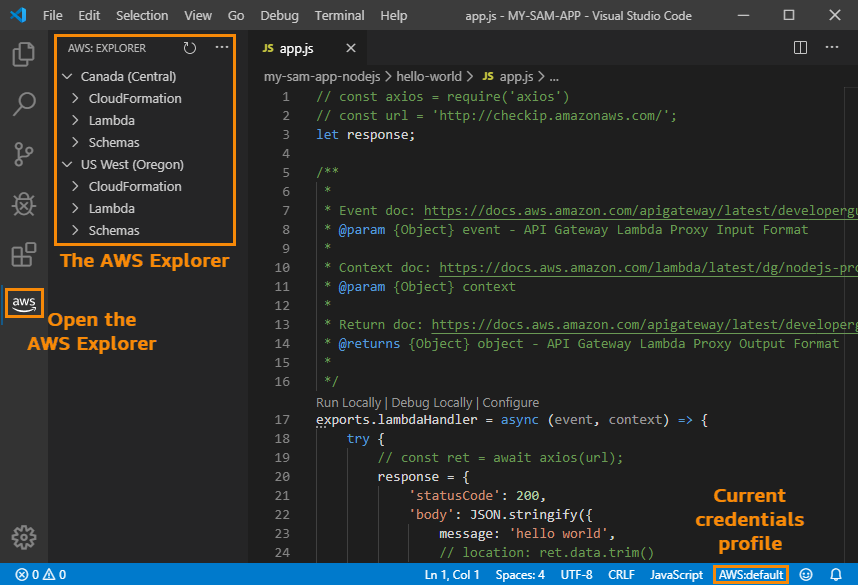
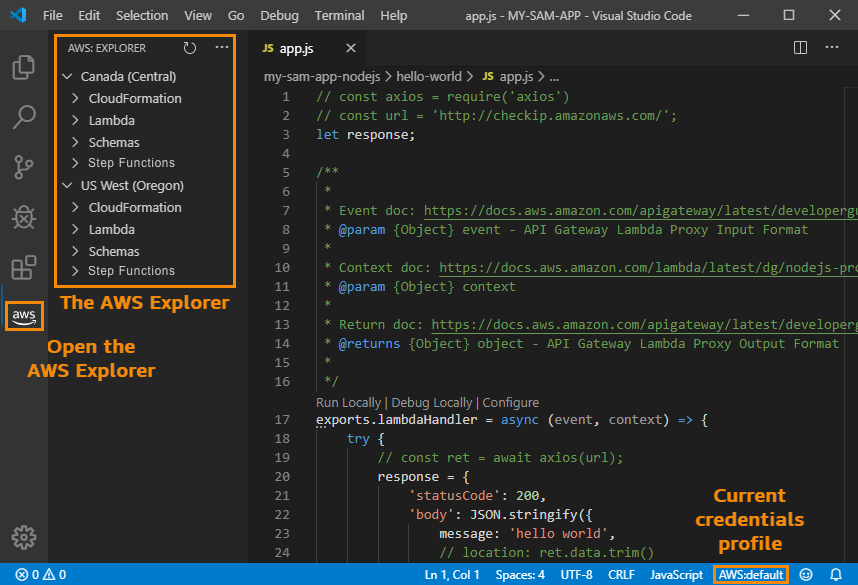
Update to extension readme

Changed region(s): [[0.0, 0.2462, 0.2727, 0.6462], [0.0, 0.0615, 0.0606, 0.2154], [0.0, 0.2462, 0.0606, 0.3077]]

diff --git a/extension-readme.md b/extension-readme.md
@@ -50,7 +50,7 @@ These include the following:
 
 -   Amazon Elastic Container Service (Amazon ECS) task definition files
 
--   Amazon Step Functions state machines
+-   AWS Step Functions state machines
 
 See [Features](#features) below for high-level details, or jump right into the [_AWS Toolkit for Visual Studio Code User Guide_](https://docs.aws.amazon.com/console/toolkit-for-vscode/welcome).
 
@@ -86,7 +86,7 @@ For complete setup instructions for these three components, see [Installing the 
 -   [AWS CDK Applications](#cdk-apps)
 -   [Amazon EventBridge Schemas](#eventbridge)
 -   [Amazon ECS Task Definition Files](#ecs-files)
--   [Amazon Step Functions](#sfn-files)
+-   [AWS Step Functions](#sfn-files)
 
 { [Return to Contents](#contents) } or { [Return to Top](#top) }
 
@@ -174,9 +174,9 @@ For full details, see [Working with Amazon Elastic Container Service](https://do
 
 ---
 
-## <a id="sfn-files"></a>Amazon Step Functions
+## <a id="sfn-files"></a>AWS Step Functions
 
-The AWS Toolkit provides support for [Amazon Step Functions](https://docs.aws.amazon.com/step-functions). With the Toolkit installed in VS Code, working with state machines is a more streamlined process.
+The AWS Toolkit provides support for [AWS Step Functions](https://docs.aws.amazon.com/step-functions). With the Toolkit installed in VS Code, working with state machines is a more streamlined process.
 
 -   Create, update, execute, and download state machines.
 -   See live graph visualizations of your state machine.
@@ -184,7 +184,7 @@ The AWS Toolkit provides support for [Amazon Step Functions](https://docs.aws.am
 
 Example:
 
-![Amazon Step Functions](./resources/marketplace/sfn-state-machine.png)
+![AWS Step Functions](./resources/marketplace/sfn-state-machine.png)
 
 For full details, see [Working with AWS Step Functions](https://docs.aws.amazon.com/toolkit-for-vscode/latest/userguide/stepfunctions.html) in the Toolkit's user guide.
 
@@ -196,22 +196,25 @@ For full details, see [Working with AWS Step Functions](https://docs.aws.amazon.
 
 The AWS Toolkit has several features that you can access through the [Command Palette](#open-command-palette) (select **View**, then **Command Palette**):
 
-| AWS Command                            | Description                                                                                                                                                                                                               |
-| :------------------------------------- | :------------------------------------------------------------------------------------------------------------------------------------------------------------------------------------------------------------------------ |
-| **AWS: Create Credentials Profile**    | Creates an AWS credentials profile. For more information, see [Setting Up Your AWS Credentials](https://docs.aws.amazon.com/console/toolkit-for-vscode/setup-credentials) in the user guide.                              |
-| **AWS: Connect to AWS**                | Connects the Toolkit to an AWS account. For more information, see [Connecting to AWS](https://docs.aws.amazon.com/console/toolkit-for-vscode/connect) in the user guide.                                                  |
-| **AWS: Create New SAM Application**    | Generates a set of code files for a new AWS serverless application. For more information, see [Creating a Serverless Application](https://docs.aws.amazon.com/console/toolkit-for-vscode/create-sam) in the user guide.   |
-| **AWS: Deploy SAM Application**        | Deploys a local serverless application to an AWS account. For more information, see [Deploying a Serverless Application](https://docs.aws.amazon.com/console/toolkit-for-vscode/deploy-serverless-app) in the user guide. |
-| **AWS: Detect SAM CLI**                | Checks whether the Toolkit can communicate correctly with the AWS SAM CLI that is installed.                                                                                                                              |
-| **AWS: Focus on Explorer View**        | Opens the **AWS: Explorer** Side Bar, which we will simply call [_the **AWS Explorer**_](#ui-components-aws-expl), and then moves the focus there.                                                                        |
-| **AWS: Hide region from the Explorer** | Hides an AWS Region from the **AWS Explorer**.                                                                                                                                                                            |
-| **AWS: Report an Issue**               | In the [GitHub repository](https://github.com/aws/aws-toolkit-vscode) for the Toolkit, opens the page to [create a new issue](https://github.com/aws/aws-toolkit-vscode/issues/new/choose).                               |
-| **AWS: Show region in the Explorer**   | Displays an AWS Region in the **AWS Explorer**.                                                                                                                                                                           |
-| **AWS: Sign out**                      | Disconnects the Toolkit from the currently-connected AWS account.                                                                                                                                                         |
-| **AWS: View AWS Toolkit Logs**         | Displays log files that contain general Toolkit diagnostic information.                                                                                                                                                   |
-| **AWS: View Quick Start**              | Open this quick-start guide.                                                                                                                                                                                              |
-| **AWS: View Documentation**            | Opens the [user guide](https://docs.aws.amazon.com/console/toolkit-for-vscode/welcome) for the Toolkit.                                                                                                                   |
-| **AWS: View Source on GitHub**         | Opens the [GitHub repository](https://github.com/aws/aws-toolkit-vscode) for the Toolkit.                                                                                                                                 |
+| AWS Command                                        | Description                                                                                                                                                                                                                                                                                                    |
+| :------------------------------------------------- | :------------------------------------------------------------------------------------------------------------------------------------------------------------------------------------------------------------------------------------------------------------------------------------------------------------- |
+| **AWS: Create Credentials Profile**                | Creates an AWS credentials profile. For more information, see [Setting Up Your AWS Credentials](https://docs.aws.amazon.com/console/toolkit-for-vscode/setup-credentials) in the user guide.                                                                                                                   |
+| **AWS: Connect to AWS**                            | Connects the Toolkit to an AWS account. For more information, see [Connecting to AWS](https://docs.aws.amazon.com/console/toolkit-for-vscode/connect) in the user guide.                                                                                                                                       |
+| **AWS: Create a new Step Functions state machine** | Generates a new Amazon States Language definition to use as the definition for a new Step Functions state machine. For more information, see [State Machine Templates](https://docs.aws.amazon.com//toolkit-for-vscode/latest/userguide/bulding-stepfunctions.html#templates-stepfunctions) in the user guide. |
+| **AWS: Create New SAM Application**                | Generates a set of code files for a new AWS serverless application. For more information, see [Creating a Serverless Application](https://docs.aws.amazon.com/console/toolkit-for-vscode/create-sam) in the user guide.                                                                                        |
+| **AWS: Deploy SAM Application**                    | Deploys a local serverless application to an AWS account. For more information, see [Deploying a Serverless Application](https://docs.aws.amazon.com/console/toolkit-for-vscode/deploy-serverless-app) in the user guide.                                                                                      |
+| **AWS: Detect SAM CLI**                            | Checks whether the Toolkit can communicate correctly with the AWS SAM CLI that is installed.                                                                                                                                                                                                                   |
+| **AWS: Focus on Explorer View**                    | Opens the **AWS: Explorer** Side Bar, which we will simply call [_the **AWS Explorer**_](#ui-components-aws-expl), and then moves the focus there.                                                                                                                                                             |
+| **AWS: Hide region from the Explorer**             | Hides an AWS Region from the **AWS Explorer**.                                                                                                                                                                                                                                                                 |
+| **AWS: Publish state machine to Step Functions**   | Creates or updates a remote state machine using the local Amazon States Language definition file. For more information, see [Work With State Machines in VS Code](https://docs.aws.amazon.com/toolkit-for-vscode/latest/userguide/bulding-stepfunctions.html#starting-stepfunctions) in the user guide.        |
+| **AWS: Render state machine graph**                | Renders the state machine definition into a graph visualization. For more information, see [State Machine Graph Visualization](https://docs.aws.amazon.com//toolkit-for-vscode/latest/userguide/bulding-stepfunctions.html#bulding-stepfunctions-visualizations) in the user guide.                            |
+| **AWS: Report an Issue**                           | In the [GitHub repository](https://github.com/aws/aws-toolkit-vscode) for the Toolkit, opens the page to [create a new issue](https://github.com/aws/aws-toolkit-vscode/issues/new/choose).                                                                                                                    |
+| **AWS: Show region in the Explorer**               | Displays an AWS Region in the **AWS Explorer**.                                                                                                                                                                                                                                                                |
+| **AWS: Sign out**                                  | Disconnects the Toolkit from the currently-connected AWS account.                                                                                                                                                                                                                                              |
+| **AWS: View AWS Toolkit Logs**                     | Displays log files that contain general Toolkit diagnostic information.                                                                                                                                                                                                                                        |
+| **AWS: View Quick Start**                          | Open this quick-start guide.                                                                                                                                                                                                                                                                                   |
+| **AWS: View Documentation**                        | Opens the [user guide](https://docs.aws.amazon.com/console/toolkit-for-vscode/welcome) for the Toolkit.                                                                                                                                                                                                        |
+| **AWS: View Source on GitHub**                     | Opens the [GitHub repository](https://github.com/aws/aws-toolkit-vscode) for the Toolkit.                                                                                                                                                                                                                      |
 
 { [Return to Contents](#contents) } or { [Return to Top](#top) }
 
